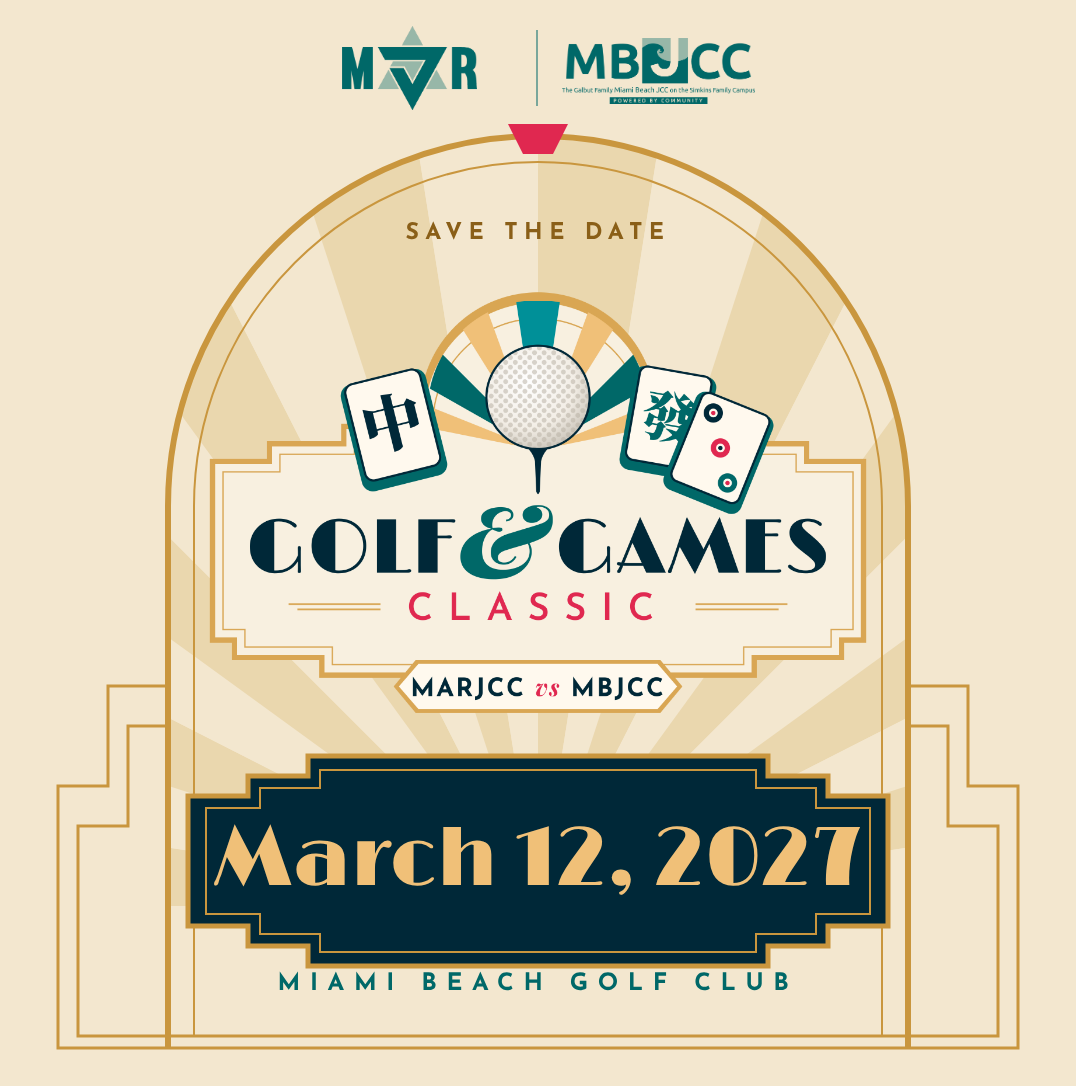
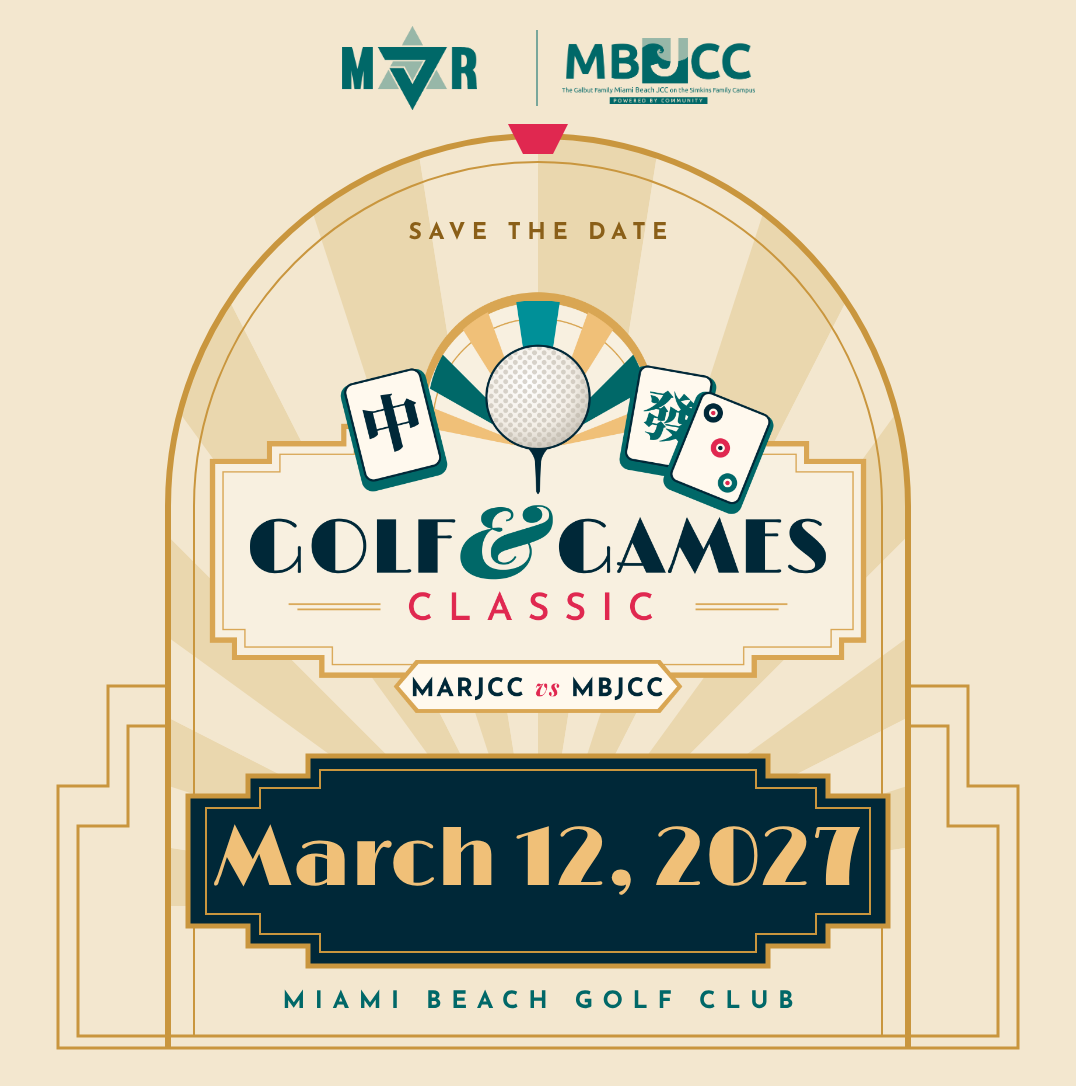
Art Deco v2 exploration: center venue line under the date plaque
Claude-Session: https://claude.ai/code/session_014Yf17Fk2qdVoQEw95c3A5W

diff --git a/explorations/email-art-deco-beige-v2/src/parts.html b/explorations/email-art-deco-beige-v2/src/parts.html
@@ -39,10 +39,10 @@
 <img class="abs" src="marjcc-teal.png" style="top:240px;left:404px;height:84px">
 <div class="abs" style="top:244px;left:598px;width:2px;height:76px;background:#006868;opacity:.5"></div>
 <img class="abs" src="mbjcc-teal.png" style="top:252px;left:624px;height:66px">
-<div class="abs c caps" style="top:436px;color:#8A5F18;font-size:23px;letter-spacing:.28em">Save the Date</div>
+<div class="abs c caps" style="top:436px;color:#8A5F18;font-size:23px;letter-spacing:.28em;text-indent:.28em">Save the Date</div>
 <img class="abs" src="golf-games-classic-logo.png" style="top:480px;left:250px;width:700px">
 <div class="abs c" style="top:1032px;font-family:Limelight,serif;font-size:84px;line-height:1;color:#F0C078">March 12, 2027</div>
-<div class="abs c caps" style="top:1186px;color:#006868;font-size:24px;letter-spacing:.4em">Miami Beach Golf Club</div>
+<div class="abs c caps" style="top:1204px;color:#006868;font-size:24px;letter-spacing:.4em;text-indent:.4em">Miami Beach Golf Club</div>
 </div>
 
 <!-- 2. FAN DIVIDER -->
